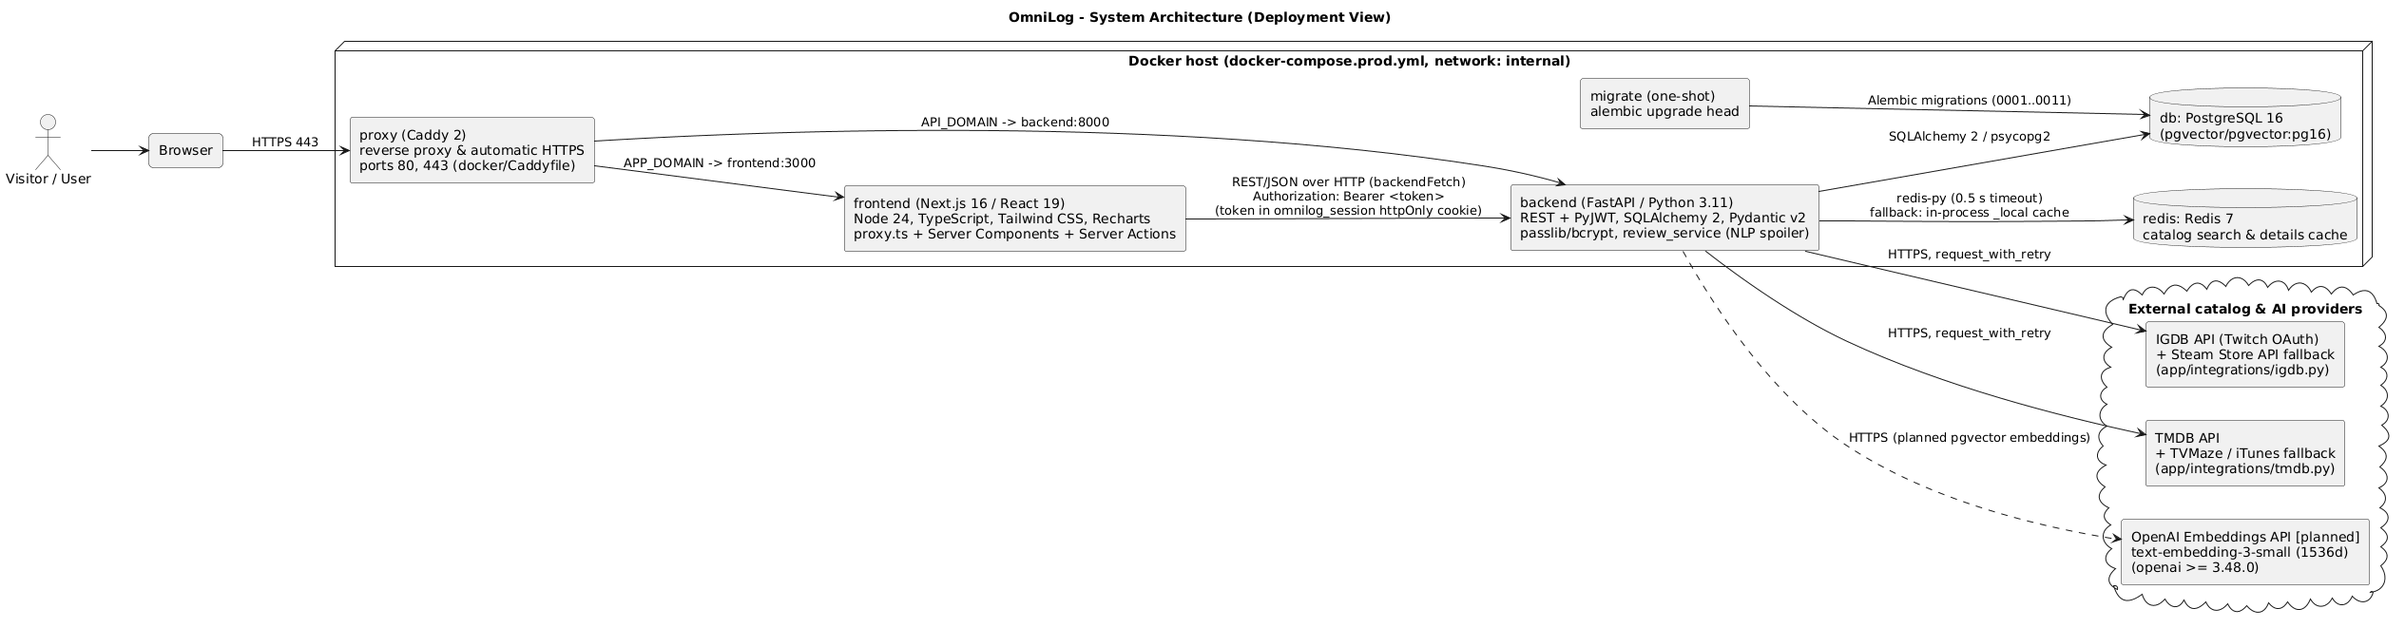
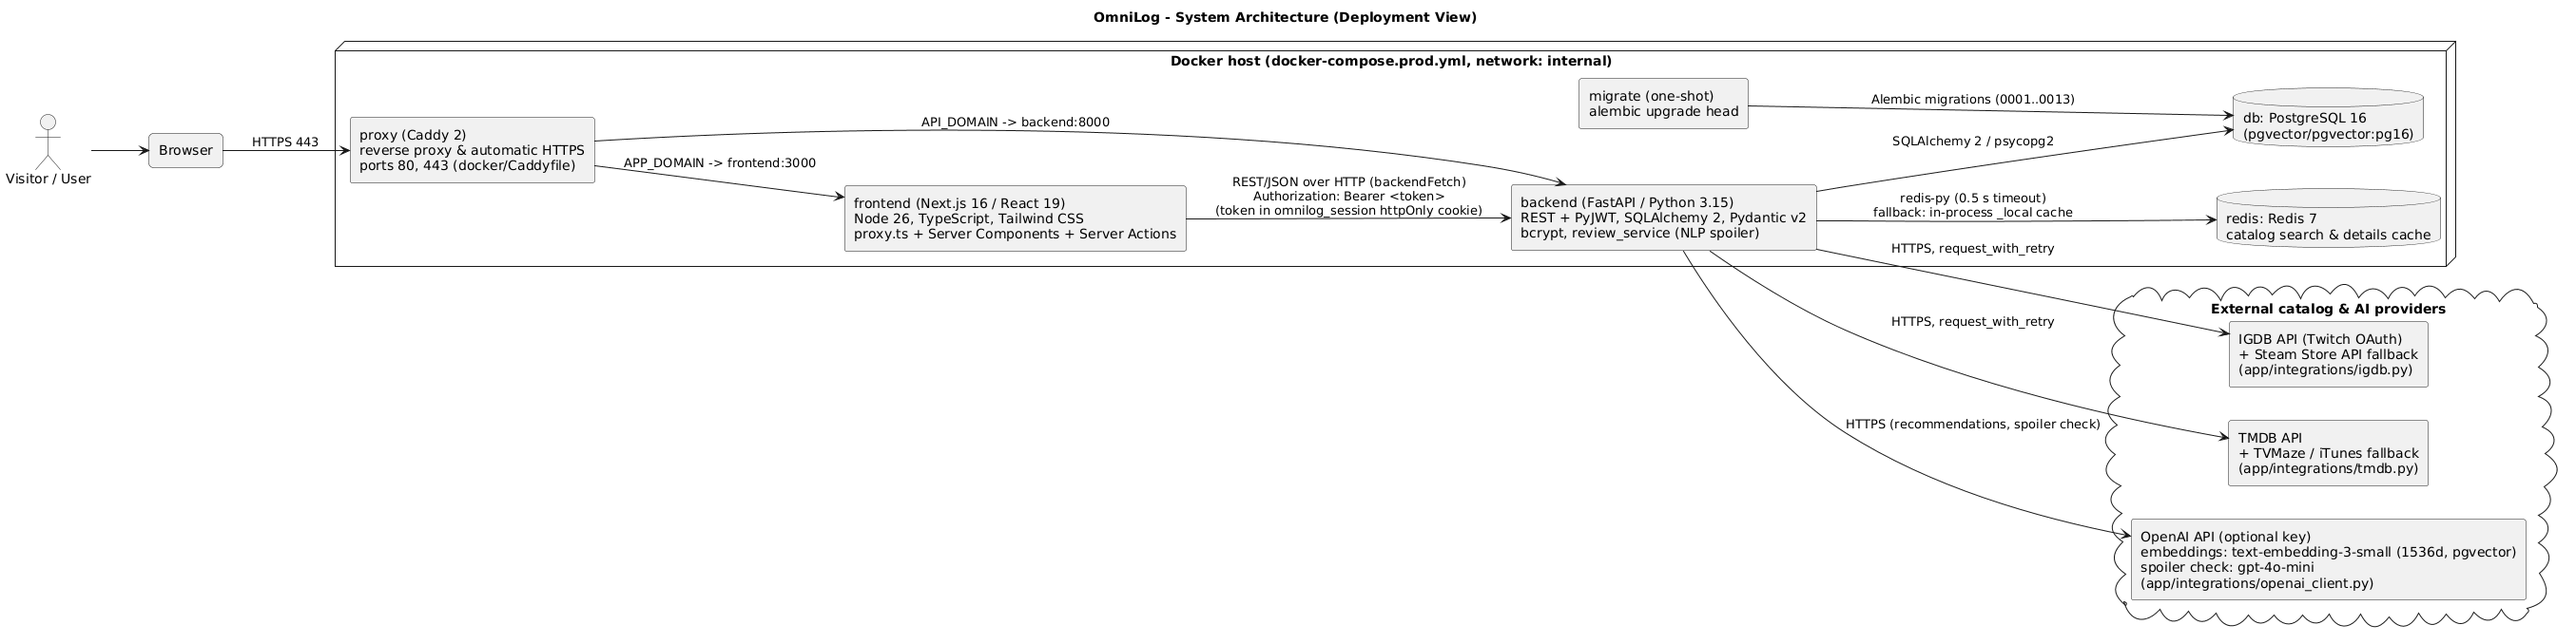
docs: bring the architecture diagrams up to date
The diagrams still showed Node 24, Python 3.11, passlib, Recharts, migrations up to 0011 and the OpenAI embeddings as planned. They now show Node 26, Python 3.15, bcrypt, migrations up to 0013 and the OpenAI API in use for the recommendations and the spoiler check. Rendered again with PlantUML 1.2026.10 (Refs #295).

Assisted-by: Claude Code (Claude Opus 5.5)

diff --git a/docs/design/software-design-report.md b/docs/design/software-design-report.md
@@ -44,7 +44,7 @@ To regenerate all PNG and SVG diagrams from PlantUML sources: `./docs/design/ren
 | Topic | Decision | Implementation in Repo |
 |---|---|---|
 | Architectural style | Client-server with Next.js Server Components/Actions (BFF) and a layered FastAPI monolith | `frontend/src/`, `backend/app/` |
-| Frontend | Next.js 16 (App Router), React 19, TypeScript, Tailwind CSS v4, Recharts | `frontend/package.json`, `frontend/src/app/` |
+| Frontend | Next.js 16 (App Router), React 19, TypeScript, Tailwind CSS v4 (the charts are plain CSS bars) | `frontend/package.json`, `frontend/src/app/` |
 | Backend | FastAPI, SQLAlchemy 2, Pydantic v2, Alembic | `backend/requirements.txt`, `backend/app/main.py` |
 | Persistence & cache | PostgreSQL 16 (`pgvector/pgvector:pg16`), Redis 7 (`redis:7-alpine`) + in-process fallback | `backend/app/core/database.py`, `backend/app/core/cache.py` |
 | Authentication | Stateless JWT (`HS256`, 90 min expiry via `PyJWT`), `bcrypt` password hashing, `httpOnly` cookie (`omnilog_session`) | `backend/app/core/security.py`, `frontend/src/lib/server/session.ts` |
@@ -61,7 +61,7 @@ To regenerate all PNG and SVG diagrams from PlantUML sources: `./docs/design/ren
 
 The production stack defined in `docker-compose.prod.yml` runs six containers on a single isolated Docker network (`internal`):
 1. **`proxy` (`caddy:2-alpine`, `docker/Caddyfile`):** The only container that publishes host ports (`80` and `443`). Terminates TLS automatically via Let's Encrypt and routes `{$APP_DOMAIN}` to `frontend:3000` and `{$API_DOMAIN}` to `backend:8000`.
-2. **`frontend` (`node:24-alpine`, `frontend/Dockerfile`):** Runs the Next.js 16 standalone server on port `3000` as non-root user `10001`. Renders Server Components and executes Server Actions, communicating with the backend over HTTP using Bearer JWT tokens read from the `omnilog_session` `httpOnly` cookie.
+2. **`frontend` (`node:26-alpine`, `frontend/Dockerfile`):** Runs the Next.js 16 standalone server on port `3000` as non-root user `10001`. Renders Server Components and executes Server Actions, communicating with the backend over HTTP using Bearer JWT tokens read from the `omnilog_session` `httpOnly` cookie.
 3. **`backend` (`python:3.15-slim-bookworm`, `backend/Dockerfile`):** Runs FastAPI under Uvicorn on port `8000` as non-root user `10001:10001`. Waits for `migrate` (`service_completed_successfully`) and `redis` (`service_healthy`) before starting.
 4. **`migrate` (`omnilog-backend` image):** A one-shot container (`restart: "no"`) that runs `alembic upgrade head` against PostgreSQL once `db` is healthy.
 5. **`db` (`pgvector/pgvector:pg16`):** PostgreSQL 16 relational database with the `pgvector` extension, persisted in volume `pgdata`.
